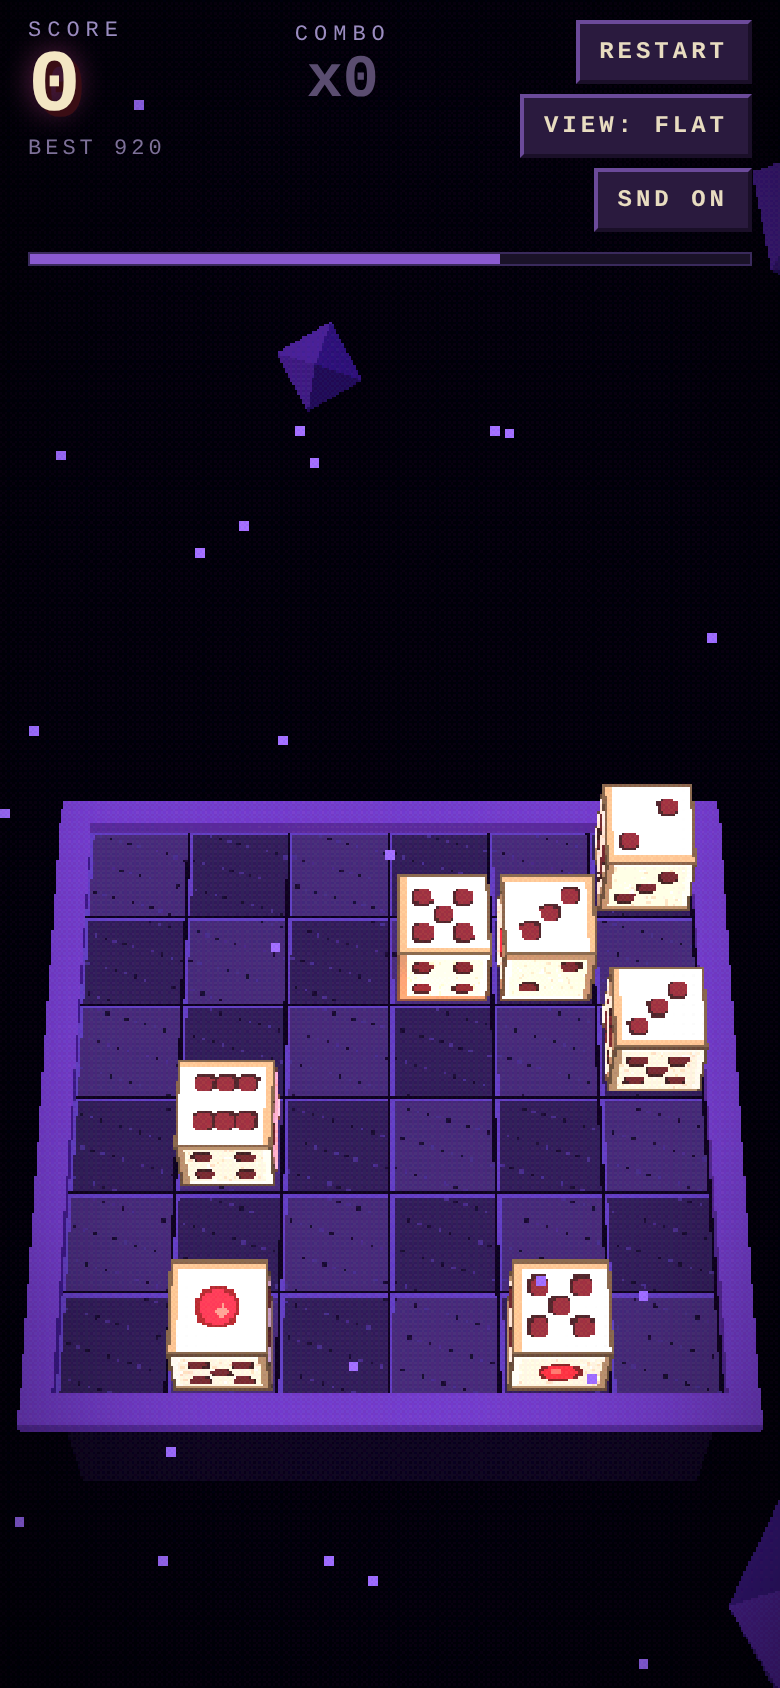
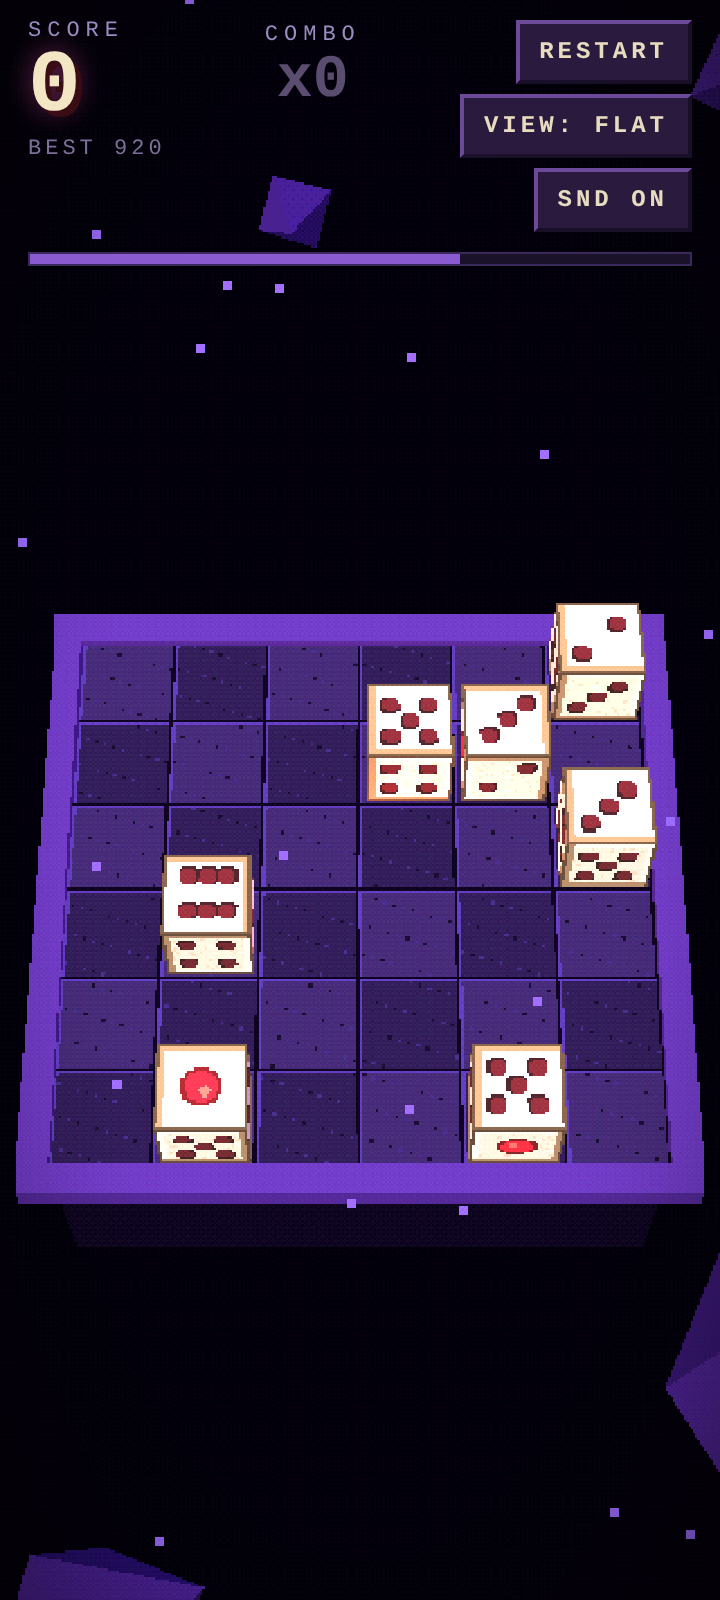
Fit board edge-to-edge in both views (computed from viewport), auto vertical shift

diff --git a/index.html b/index.html
@@ -5,7 +5,7 @@
 <meta name="viewport" content="width=device-width,initial-scale=1,maximum-scale=1,user-scalable=no,viewport-fit=cover">
 <meta name="theme-color" content="#0a0612">
 <meta name="apple-mobile-web-app-capable" content="yes">
-<meta name="build" content="20261102-215053">
+<meta name="build" content="20261102-215940">
 <title>DEADROLL – dice prototype</title>
 <style>
   html,body{margin:0;height:100%;background:#050309;overflow:hidden;overscroll-behavior:none;touch-action:none;
@@ -553,13 +553,19 @@ $('snd').addEventListener('click', () => { audioInit(); muted = !muted; $('snd')
 
 /* ---------- layout ---------- */
 const camTarget = new THREE.Vector3(0, 0, 0), camBase = new THREE.Vector3();
-const VIEWS = { iso: { az: Math.PI / 4, tilt: THREE.MathUtils.degToRad(40), dist: 14 }, flat: { az: 0, tilt: THREE.MathUtils.degToRad(27), dist: 12 } };
+const VIEWS = { iso: { az: Math.PI / 4, tilt: THREE.MathUtils.degToRad(40), dist: 14, shift: 100 }, flat: { az: 0, tilt: THREE.MathUtils.degToRad(27), dist: 12, shift: 100 } };
 let view = 'iso'; try { view = localStorage.getItem('deadroll-view') === 'flat' ? 'flat' : 'iso'; } catch (e) { }
-const cam = { az: VIEWS[view].az, tilt: VIEWS[view].tilt, dist: 14 };
+const cam = { az: VIEWS[view].az, tilt: VIEWS[view].tilt, dist: 14, shift: 0 };
+const VIEWS_H = { W: 390, Ht: 844 };
+let lastShift = null;
+function applyShift(force) {
+  if (!force && lastShift !== null && Math.abs(lastShift - cam.shift) < 0.05) return;
+  lastShift = cam.shift; camera.setViewOffset(VIEWS_H.W, VIEWS_H.Ht, 0, -cam.shift, VIEWS_H.W, VIEWS_H.Ht); camera.updateProjectionMatrix();
+}
 function setView(v, instant) {
   view = v; try { localStorage.setItem('deadroll-view', v); } catch (e) { }
   $('view').textContent = v === 'iso' ? 'VIEW: ISO' : 'VIEW: FLAT';
-  if (instant) Object.assign(cam, VIEWS[v]);
+  if (instant) { Object.assign(cam, VIEWS[v]); applyShift(true); }
 }
 $('view').addEventListener('click', () => { audioInit(); setView(view === 'iso' ? 'flat' : 'iso'); sfx('tick', 1.4); });
 function layout() {
@@ -569,13 +575,27 @@ function layout() {
   rt.setSize(tw, th); snapU.value.set(tw, th);
   camera.aspect = W / Ht; camera.fov = 38;
   const vt = Math.tan(THREE.MathUtils.degToRad(camera.fov / 2)), ht = vt * camera.aspect;
+  /* Fit: solve the camera distance so the board's left/right extremes land at ±FIT of the screen width
+     (perspective-correct, from the real projection), then shift vertically so the whole board sits below the HUD and above the bottom edge. */
+  const tc = new THREE.PerspectiveCamera(camera.fov, camera.aspect, 0.1, 80), R = N / 2 + 0.3, FIT = 0.96;
+  const rimC = [[-R, 0.12, -R], [R, 0.12, -R], [R, 0.12, R], [-R, 0.12, R]].map((a) => new THREE.Vector3(...a));
+  const topC = rimC.map((c) => c.clone().setY(1.0)), botC = rimC.map((c) => c.clone().setY(-2.4));
+  const place = (V, dist) => { tc.position.set(Math.sin(V.az) * Math.sin(V.tilt) * dist, Math.cos(V.tilt) * dist, Math.cos(V.az) * Math.sin(V.tilt) * dist); tc.lookAt(0, 0, 0); tc.updateMatrixWorld(true); tc.updateProjectionMatrix(); };
+  const hudBottom = $('spawnbar').getBoundingClientRect().bottom - r.top + 14, bandTop = hudBottom, bandBot = Ht - 26;
   for (const k of ['iso', 'flat']) {
-    const V = VIEWS[k], span = k === 'iso' ? N * Math.SQRT2 : N;                    // board width on screen (diamond vs square)
-    const dW = (span + 1.4) / 2 / ht;
-    const dH = (span * Math.cos(V.tilt) + 1.5) / (2 * vt * 0.64);                  // fit the lower ~2/3 of the screen
-    V.dist = Math.max(dW, dH);
+    const V = VIEWS[k]; let lo = 3, hi = 70;
+    for (let i = 0; i < 40; i++) {
+      const mid = (lo + hi) / 2; place(V, mid);
+      const mx = Math.max(...rimC.map((c) => Math.abs(c.clone().project(tc).x)));
+      if (mx > FIT) lo = mid; else hi = mid;
+    }
+    V.dist = (lo + hi) / 2; place(V, V.dist);
+    const ys = [...topC, ...rimC, ...botC].map((c) => (-c.clone().project(tc).y * 0.5 + 0.5) * Ht);
+    const pyTop = Math.min(...ys), pyBot = Math.max(...ys);
+    V.shift = pyBot - pyTop <= bandBot - bandTop ? (bandTop + bandBot) / 2 - (pyTop + pyBot) / 2 : bandBot - pyBot;
   }
-  camera.setViewOffset(W, Ht, 0, -Ht * 0.15, W, Ht);          // push board down into the lower 2/3
+  VIEWS_H.W = W; VIEWS_H.Ht = Ht;
+  camera.near = 0.1; camera.far = 80; applyShift(true);
   camera.near = 0.1; camera.far = 80; camera.updateProjectionMatrix();
 }
 window.addEventListener('resize', layout); window.addEventListener('orientationchange', () => setTimeout(layout, 120));
@@ -682,7 +702,7 @@ function update(rawDt) {
   // camera + shake
   shake = Math.max(0, shake - rawDt * 1.4);
   const V = VIEWS[view], k = Math.min(1, rawDt * 7);
-  cam.az += (V.az - cam.az) * k; cam.tilt += (V.tilt - cam.tilt) * k; cam.dist += (V.dist - cam.dist) * k;
+  cam.az += (V.az - cam.az) * k; cam.tilt += (V.tilt - cam.tilt) * k; cam.dist += (V.dist - cam.dist) * k; cam.shift += (V.shift - cam.shift) * k; applyShift(false);
   scene.fog.near = cam.dist + 5; scene.fog.far = cam.dist + 22;
   camBase.set(Math.sin(cam.az) * Math.sin(cam.tilt) * cam.dist, Math.cos(cam.tilt) * cam.dist, Math.cos(cam.az) * Math.sin(cam.tilt) * cam.dist);
   camera.position.set(camBase.x + (Math.random() - .5) * shake * 0.4, camBase.y + (Math.random() - .5) * shake * 0.4, camBase.z);
@@ -717,6 +737,12 @@ window.__game = {
   topAt(gx, gy) { const d = grid[gy][gx]; return d ? d.top : null; },
   stateAt(gx, gy) { const d = grid[gy][gx]; return d ? d.state : null; },
   evaluate,
+  boardExtents() {
+    camera.updateMatrixWorld(); const R = N / 2 + 0.3, r = app.getBoundingClientRect();
+    const pts = []; for (const y of [1.0, 0.12, -2.4]) for (const [x, z] of [[-R, -R], [R, -R], [R, R], [-R, R]]) pts.push(new THREE.Vector3(x, y, z).project(camera));
+    const xs = pts.slice(4, 8).map((p) => (p.x * .5 + .5) * r.width), ys = pts.map((p) => (-p.y * .5 + .5) * r.height);
+    return { minX: Math.min(...xs), maxX: Math.max(...xs), minY: Math.min(...ys), maxY: Math.max(...ys), W: r.width, H: r.height, hudBottom: document.getElementById('spawnbar').getBoundingClientRect().bottom };
+  },
   get mode() { return drag ? drag.mode : null; },
   get chains() { return chains.map((c) => ({ t: c.t, dur: c.dur, n: dice.filter((d) => d.chain === c).length })); },
   get view() { return view; }, setView(v) { setView(v, true); },

diff --git a/test.py b/test.py
@@ -2,6 +2,8 @@ import asyncio, json, sys
 from playwright.async_api import async_playwright
 
 URL = sys.argv[1] if len(sys.argv) > 1 else 'http://localhost:18431/index.html?seed=7'
+VW = int(sys.argv[2]) if len(sys.argv) > 2 else 390
+VH = int(sys.argv[3]) if len(sys.argv) > 3 else 844
 errors = []; results = []; VIEW='iso'
 def check(name, ok, extra=''):
     results.append((name, bool(ok), extra)); print(('PASS' if ok else 'FAIL'), name, extra)
@@ -17,7 +19,7 @@ async def swipe(page, a, b, steps=6, hold=0.0):
 async def main():
     async with async_playwright() as p:
         b = await p.chromium.launch(args=['--use-angle=swiftshader','--enable-unsafe-swiftshader','--ignore-gpu-blocklist','--enable-webgl'])
-        ctx = await b.new_context(viewport={'width':390,'height':844}, device_scale_factor=2, has_touch=True, is_mobile=True)
+        ctx = await b.new_context(viewport={'width':VW,'height':VH}, device_scale_factor=2, has_touch=True, is_mobile=True)
         page = await ctx.new_page()
         page.on('console', lambda m: errors.append(f'console.{m.type}: {m.text}') if m.type in ('error','warning') else None)
         page.on('pageerror', lambda e: errors.append(f'pageerror: {e}'))
@@ -89,6 +91,11 @@ async def main():
             sc = await page.evaluate('__game.score'); check(f'[{VIEW}] score awarded', sc > 0, str(sc))
             check(f'[{VIEW}] sunk dice removed', await page.evaluate('__game.dice.length') == 0, str(await page.evaluate('__game.dice')))
 
+            await page.wait_for_timeout(900)
+            e = await page.evaluate('__game.boardExtents()')
+            check(f'[{VIEW}] {VW}x{VH} board edges ~touch screen edges (2% margin)', e['minX']/e['W']<0.045 and e['minX']>=0 and e['maxX']<=e['W'] and 1-e['maxX']/e['W']<0.045, f"x {e['minX']:.1f}..{e['maxX']:.1f} of {e['W']:.0f}")
+            check(f'[{VIEW}] {VW}x{VH} board bottom on-screen & below HUD', e['maxY']<=e['H'] and e['minY']>=e['hudBottom']-6, f"y {e['minY']:.0f}..{e['maxY']:.0f} of {e['H']:.0f}, hud {e['hudBottom']:.0f}")
+            await page.screenshot(path=f'screenshot_fit_{VIEW}_{VW}x{VH}.png')
             # slide mode: hold ~250ms then drag = move without flipping
             await page.evaluate('__game.clear(); __game.place(2,2,5)')
             pa = await page.evaluate('__game.tileToScreen(2,2)'); pb = await page.evaluate('__game.tileToScreen(3,2)')
